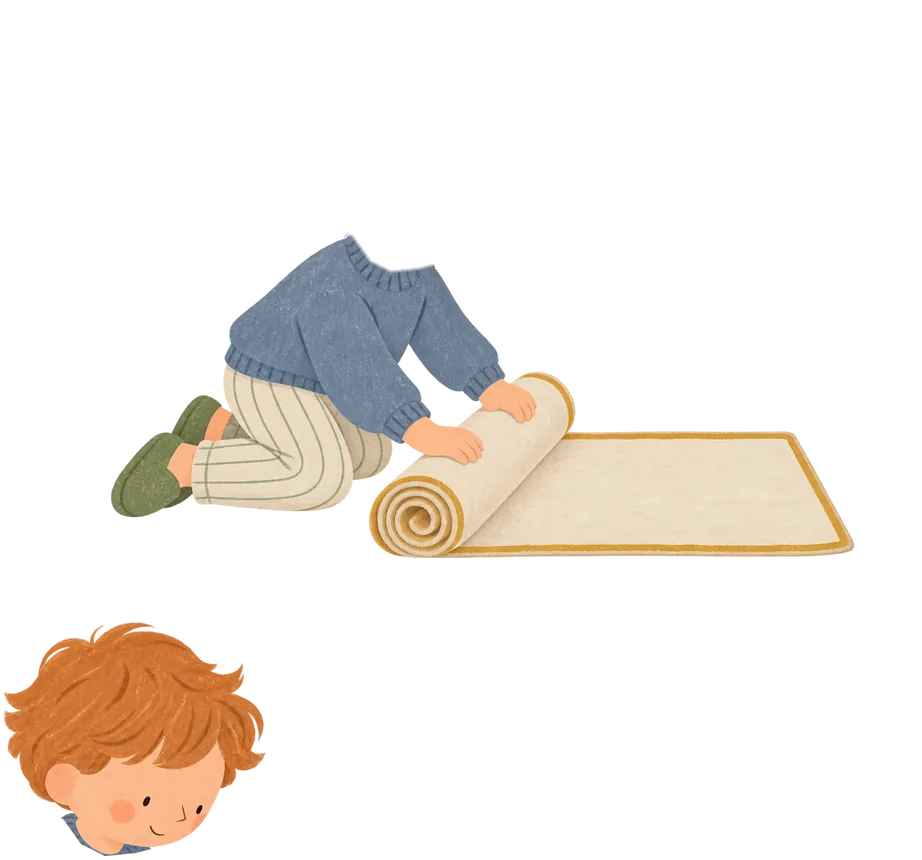
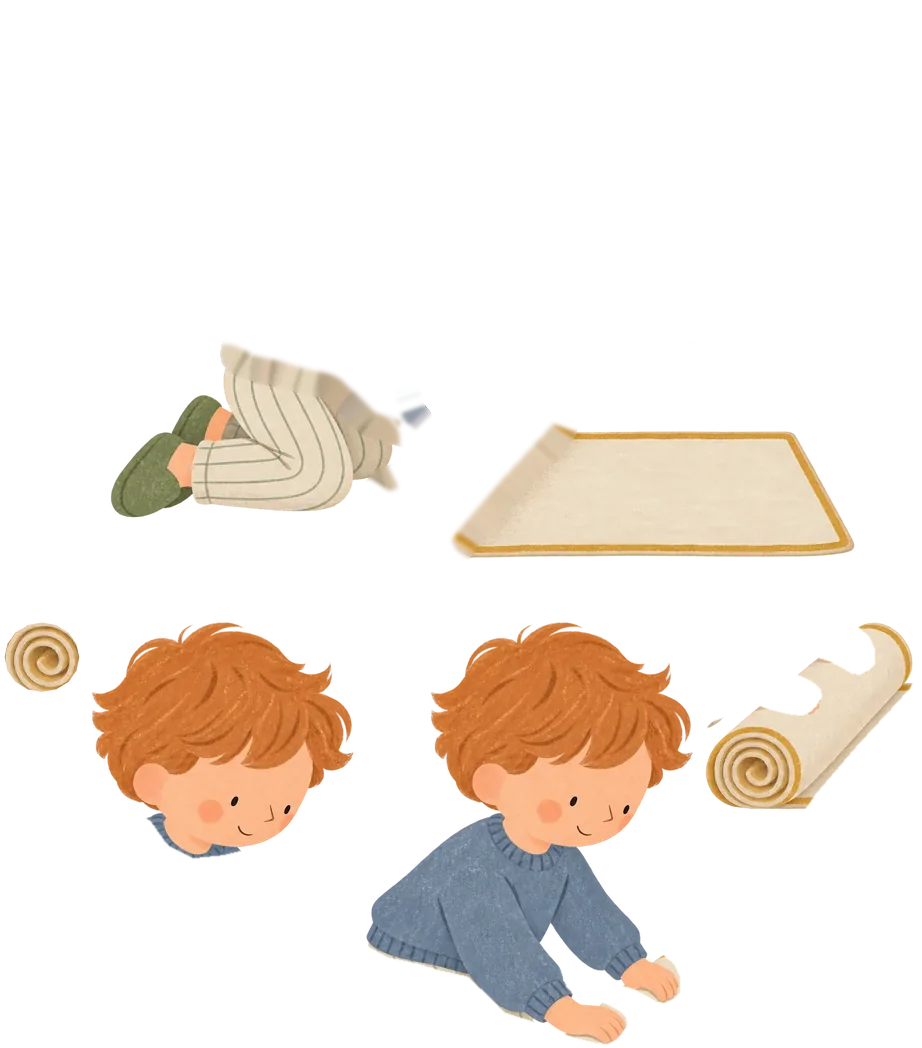
Anime vraiment le tapis roulé et le manteau (Chenilles)
Le garçon se penche et pousse son rouleau : le buste pivote, le rouleau
avance et sa spirale tourne, puis il se redresse. La petite fille ferme
son manteau en tirant sur les deux pans, qui pivotent aux épaules, puis
le rouvre ; le geste des seules mains était trop discret.

Les calques peuvent désormais s'emboîter (la tête suit le buste, la
spirale suit le rouleau).

diff --git a/chenilles-petons.html b/chenilles-petons.html
@@ -527,9 +527,9 @@ body .button:not(.secondary){color:#203f4d;}
     <div class="section-title"><svg class="icon" viewBox="0 0 24 24" fill="none" stroke="currentColor" stroke-width="1.55" stroke-linecap="round" stroke-linejoin="round" aria-hidden="true"><path d="M8 13V6a1.5 1.5 0 0 1 3 0v6-8a1.5 1.5 0 0 1 3 0v8-6a1.5 1.5 0 0 1 3 0v7-3a1.5 1.5 0 0 1 3 0v6c0 4-2.5 6-6 6-3 0-5-1-6.5-3L3 13a1.5 1.5 0 0 1 2-2Z"/></svg><h2 id="autonomy-title">Faire seul, avec juste assez d’aide</h2><span class="tiny-star" aria-hidden="true">✧</span></div>
     <div class="autonomy-intro"><div><p>Antoine encourage les enfants à faire par eux-mêmes, même lorsque cela demande davantage de temps. Il ajuste son aide pour que chacun puisse, peu à peu, réussir seul.</p><p>Choisir une activité, se préparer pour sortir ou participer au repas : <strong class="orange-mark">l’autonomie se construit dans les gestes de tous les jours</strong>.</p></div><aside class="autonomy-words"><p>« Aide-moi <br>à faire seul. »</p><span>Un fil conducteur de<br>l’approche Montessori.</span></aside></div>
     <div class="autonomy-stories" aria-label="Dans les gestes du quotidien">
-      <article class="autonomy-story autonomy-coat"><figure><svg class="puppet puppet--manteau" viewBox="0 0 512 768" role="img" aria-label="Une petite fille ajuste seule son manteau vert sur une robe fleurie ; elle porte des chaussons ocre."><svg width="512" height="768" viewBox="0 0 512 768"><image href="assets/img/anim/manteau.webp" width="512" height="1007"/></svg><g class="pz pz-head" style="transform-origin:270.0px 261.0px"><svg x="115" y="35" width="295" height="235" viewBox="0 772 295 235"><image href="assets/img/anim/manteau.webp" width="512" height="1007"/></svg></g><g class="pz pz-hand-l" style="transform-origin:202.5px 345.0px"><svg x="193" y="301" width="68" height="61" viewBox="299 772 68 61"><image href="assets/img/anim/manteau.webp" width="512" height="1007"/></svg></g><g class="pz pz-hand-r" style="transform-origin:345.0px 334.0px"><svg x="295" y="296" width="61" height="59" viewBox="371 772 61 59"><image href="assets/img/anim/manteau.webp" width="512" height="1007"/></svg></g></svg></figure><div class="autonomy-story-copy"><h3>Prendre soin de soi</h3><p>Mettre son manteau, aller aux toilettes, ranger ses affaires.</p></div></article>
+      <article class="autonomy-story autonomy-coat"><figure><svg class="puppet puppet--manteau" viewBox="0 0 512 768" role="img" aria-label="Une petite fille ajuste seule son manteau vert sur une robe fleurie ; elle porte des chaussons ocre."><svg width="512" height="768" viewBox="0 0 512 768"><image href="assets/img/anim/manteau.webp" width="512" height="1392"/></svg><g class="pz pz-head" style="transform-origin:270.0px 261.0px"><svg x="115" y="35" width="295" height="235" viewBox="0 772 295 235"><image href="assets/img/anim/manteau.webp" width="512" height="1392"/></svg></g><g class="pz pz-coat-l" style="transform-origin:165.0px 270.0px"><svg x="97" y="247" width="146" height="316" viewBox="299 772 146 316"><image href="assets/img/anim/manteau.webp" width="512" height="1392"/></svg></g><g class="pz pz-coat-r" style="transform-origin:320.0px 270.0px"><svg x="265" y="252" width="155" height="300" viewBox="0 1092 155 300"><image href="assets/img/anim/manteau.webp" width="512" height="1392"/></svg></g></svg></figure><div class="autonomy-story-copy"><h3>Prendre soin de soi</h3><p>Mettre son manteau, aller aux toilettes, ranger ses affaires.</p></div></article>
       <article class="autonomy-story autonomy-meal"><figure><img src="assets/img/trois-enfants-partagent-leur-repas-fait.webp" alt="Trois enfants partagent leur repas fait maison, avec leurs lunchboxes, à une table de pique-nique en bois." width="1536" height="1024" loading="lazy" decoding="async"></figure><div class="autonomy-story-copy"><h3>Participer au repas</h3><p>Ouvrir sa boîte, se servir et prendre sa part des gestes communs.</p></div></article>
-      <article class="autonomy-story autonomy-rug"><figure><svg class="puppet puppet--tapis" viewBox="0 0 922 614" role="img" aria-label="Un petit garçon à genoux roule son tapis Montessori après son activité."><svg width="922" height="614" viewBox="0 0 922 614"><image href="assets/img/anim/tapis.webp" width="922" height="860"/></svg><g class="pz pz-head" style="transform-origin:393.0px 267.0px"><svg x="285" y="39" width="270" height="242" viewBox="0 618 270 242"><image href="assets/img/anim/tapis.webp" width="922" height="860"/></svg></g></svg></figure><div class="autonomy-story-copy"><h3>Organiser son activité</h3><p>Choisir un matériel, s’installer, puis ranger après avoir travaillé.</p></div></article>
+      <article class="autonomy-story autonomy-rug"><figure><svg class="puppet puppet--tapis" viewBox="0 0 922 614" role="img" aria-label="Un petit garçon à genoux roule son tapis Montessori après son activité."><svg width="922" height="614" viewBox="0 0 922 614"><image href="assets/img/anim/tapis.webp" width="922" height="1048"/></svg><g class="pz pz-roll" style="transform-origin:468.0px 516.0px"><svg x="364" y="367" width="216" height="196" viewBox="701 618 216 196"><image href="assets/img/anim/tapis.webp" width="922" height="1048"/></svg><g class="pz pz-spiral" style="transform-origin:414.0px 517.2px"><svg x="372" y="478" width="84" height="78" viewBox="0 618 84 78"><image href="assets/img/anim/tapis.webp" width="922" height="1048"/></svg></g></g><g class="pz pz-torso" style="transform-origin:456.0px 660.0px"><svg x="220" y="39" width="335" height="430" viewBox="362 618 335 430"><image href="assets/img/anim/tapis.webp" width="922" height="1048"/></svg><g class="pz pz-head" style="transform-origin:393.0px 267.0px"><svg x="285" y="39" width="270" height="244" viewBox="88 618 270 244"><image href="assets/img/anim/tapis.webp" width="922" height="1048"/></svg></g></g></svg></figure><div class="autonomy-story-copy"><h3>Organiser son activité</h3><p>Choisir un matériel, s’installer, puis ranger après avoir travaillé.</p></div></article>
     </div>
     <p class="autonomy-help"><svg class="icon" viewBox="0 0 24 24" fill="none" stroke="currentColor" stroke-width="1.55" stroke-linecap="round" stroke-linejoin="round" aria-hidden="true"><path d="M4 3h13a3 3 0 0 1 3 3v7a3 3 0 0 1-3 3H9l-5 4v-4H3a2 2 0 0 1-2-2V6a3 3 0 0 1 3-3ZM6 8h9m-9 4h6"/></svg><span><strong>Savoir demander de l’aide</strong> fait aussi partie de l’autonomie.</span></p>
   </section>

diff --git a/assets/css/enfants-animes.css b/assets/css/enfants-animes.css
@@ -29,6 +29,12 @@ svg.puppet.is-ready{opacity:1;animation:none;transition:opacity .35s ease-out}
 @keyframes pz-drip{0%{transform:translateY(-12px);opacity:0}25%{opacity:1}70%{opacity:1}100%{transform:translateY(22px);opacity:0}}
 /* Les mains tirent deux fois sur le manteau. */
 @keyframes pz-tug{0%,42%,100%{transform:none}9%,27%{transform:rotate(var(--tug,-5deg))}18%,36%{transform:rotate(calc(var(--tug,-5deg) * .25))}}
+/* Manteau qu’on referme : deux petits ajustements, on le garde fermé, on le rouvre. */
+@keyframes pz-close{0%,100%{transform:none}14%{transform:rotate(var(--close,4deg))}20%{transform:rotate(calc(var(--close,4deg) * .7))}27%,58%{transform:rotate(var(--close,4deg))}78%{transform:none}}
+/* Poussée du tapis : le buste se penche, le rouleau avance d’autant et tourne sur lui-même. */
+@keyframes pz-lean{0%,10%,100%{transform:none}36%,50%{transform:rotate(4deg)}80%{transform:none}}
+@keyframes pz-push{0%,10%,100%{transform:none}36%,50%{transform:translateX(15px)}80%{transform:none}}
+@keyframes pz-turn{0%,10%,100%{transform:none}36%,50%{transform:rotate(30deg)}80%{transform:none}}
 /* Foulée : le corps monte et redescend, la tête suit avec un peu de retard. */
 @keyframes pz-run{0%,100%{transform:translateY(0)}45%{transform:translateY(-15px)}}
 @keyframes pz-run-head{0%,100%{transform:translateY(0) rotate(1deg)}50%{transform:translateY(-16px) rotate(-2deg)}}
@@ -60,10 +66,16 @@ svg.puppet.is-ready{opacity:1;animation:none;transition:opacity .35s ease-out}
 .puppet--fratrie .pz-sister-head{animation-name:pz-tilt;animation-duration:8s;--tilt:2.4deg}
 .puppet--fratrie .pz-brother-head{animation-name:pz-tilt;animation-duration:8s;animation-delay:.9s;--tilt:-3deg}
 
-/* Chenilles : le manteau, le tapis */
+/* Chenilles : la petite fille ferme son manteau en tirant sur les deux pans
+   (chaque moitié pivote à l’épaule), puis le rouvre. */
 .puppet--manteau .pz-head{animation-name:pz-tilt;animation-duration:7.6s;--tilt:-2deg}
-.puppet--manteau .pz-hand-l{animation-name:pz-tug;animation-duration:4.8s;--tug:-5deg}
-.puppet--manteau .pz-hand-r{animation-name:pz-tug;animation-duration:4.8s;animation-delay:.15s;--tug:5deg}
+.puppet--manteau .pz-coat-l{animation-name:pz-close;animation-duration:5.2s;--close:-4deg}
+.puppet--manteau .pz-coat-r{animation-name:pz-close;animation-duration:5.2s;animation-delay:.08s;--close:4deg}
+/* Le garçon se penche et pousse son tapis : le rouleau avance en tournant,
+   ses mains restent dessus, puis il se redresse. */
+.puppet--tapis .pz-torso{animation-name:pz-lean;animation-duration:5.6s}
+.puppet--tapis .pz-roll{animation-name:pz-push;animation-duration:5.6s}
+.puppet--tapis .pz-spiral{animation-name:pz-turn;animation-duration:5.6s}
 .puppet--tapis .pz-head{animation-name:pz-tilt;animation-duration:6.8s;--tilt:2.4deg}
 
 /* Coureurs du cross (école) : chacun sa foulée. */
